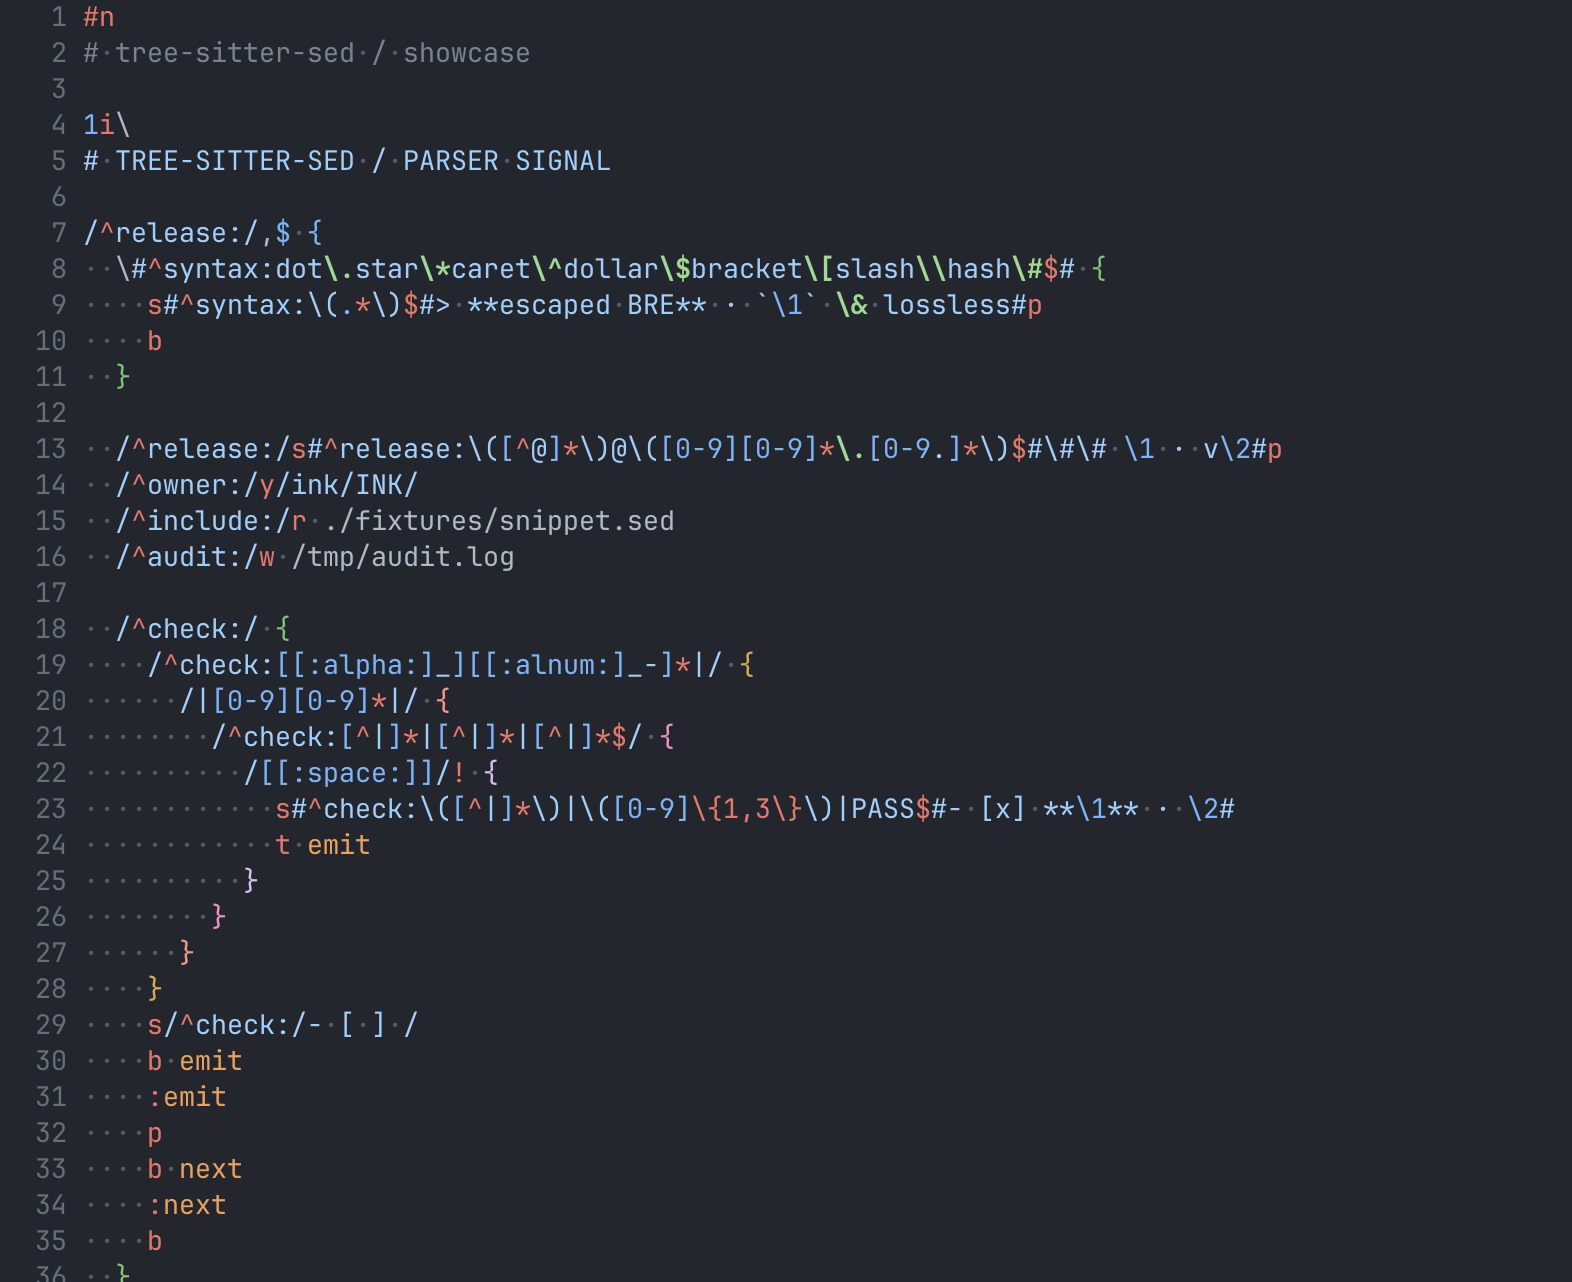
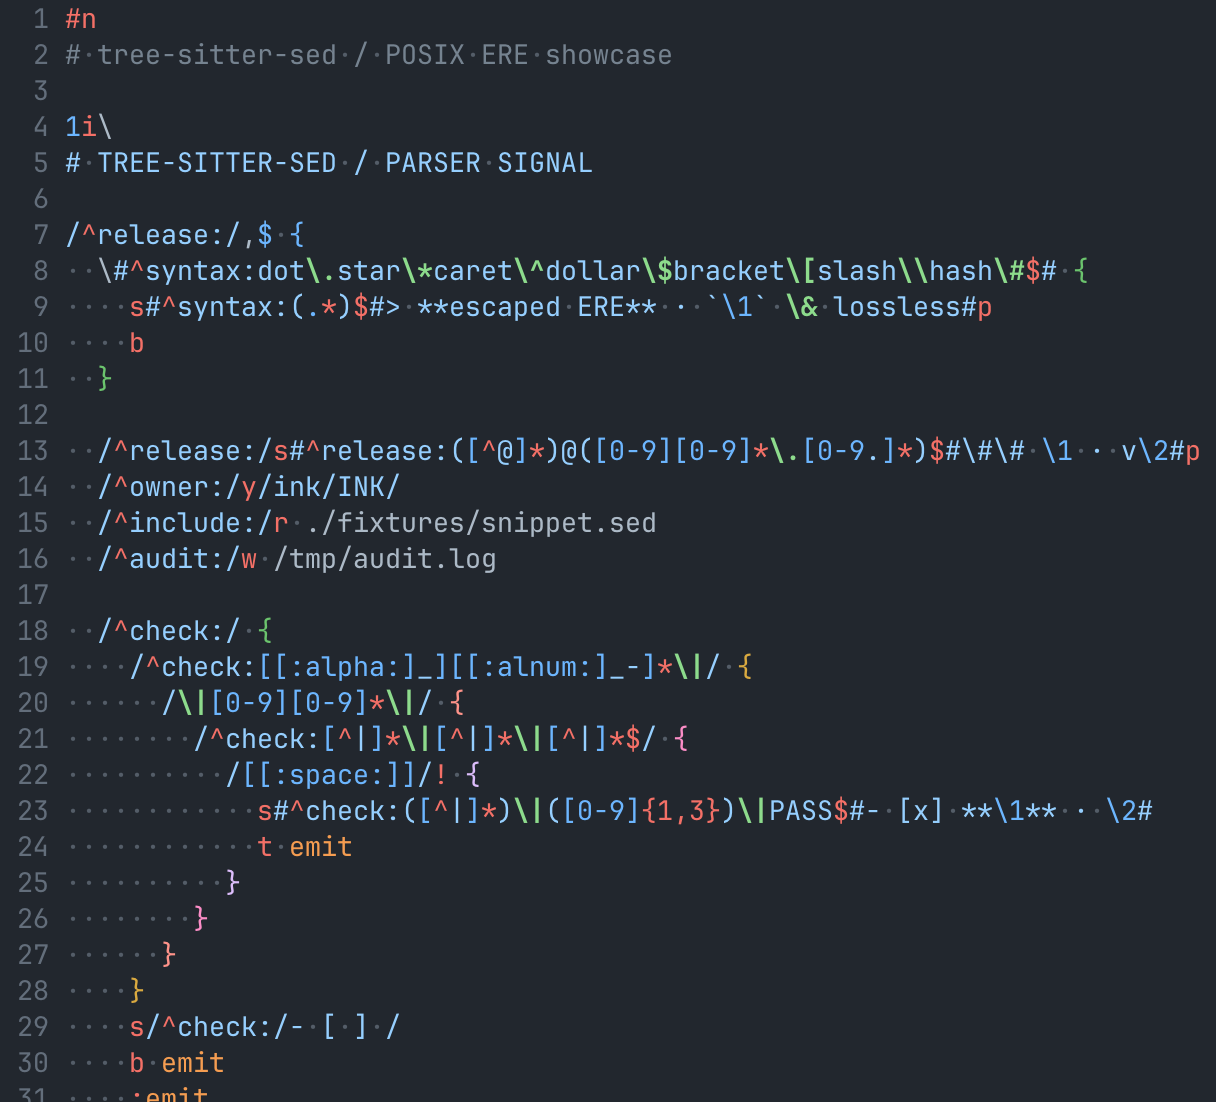
Update syntax highlighting preview

diff --git a/README.md b/README.md
@@ -6,9 +6,9 @@
 POSIX.1-2024 and GNU `sed` 4.10, with separate languages for Basic Regular
 Expressions (BREs) and Extended Regular Expressions (EREs).
 
-![A POSIX sed script with syntax highlighting in Emacs](assets/highlight-preview.png)
+![A POSIX ERE sed script with syntax highlighting in Emacs](assets/highlight-preview.png)
 
-_POSIX `sed` syntax highlighting in a customized Emacs setup._
+_POSIX ERE `sed` syntax highlighting in a customized Emacs setup._
 
 ## Grammars
 
